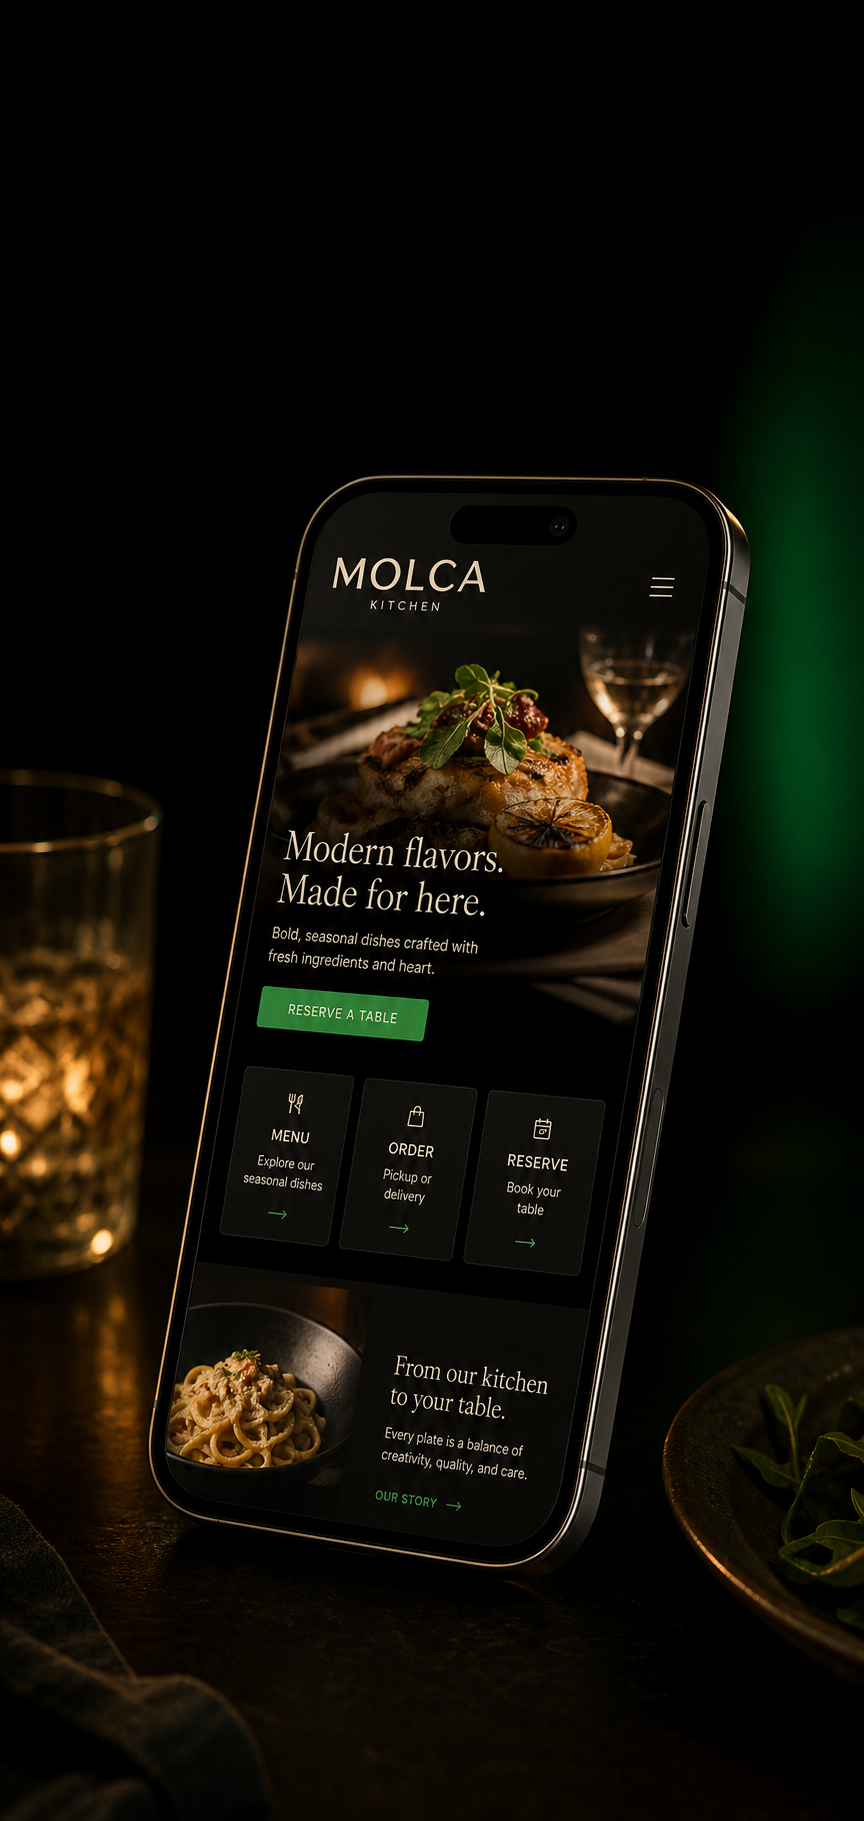
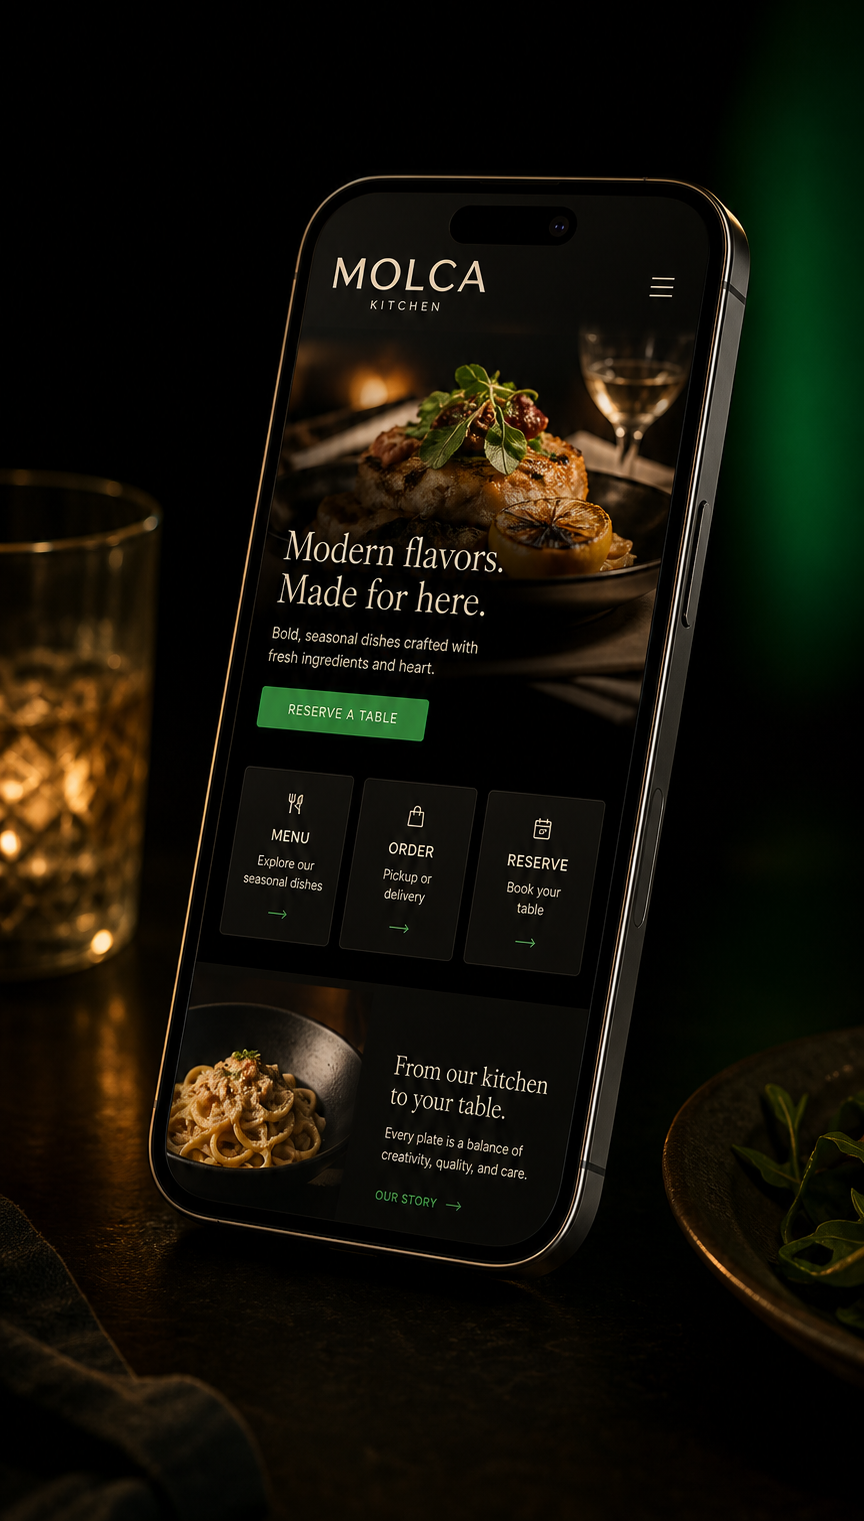
Crop restaurant visual asset

diff --git a/src/components/IndustryPage.tsx b/src/components/IndustryPage.tsx
@@ -182,7 +182,7 @@ function IndustryOutcomeProof({
           </h2>
         </div>
 
-        <div className="relative left-1/2 ml-[-50vw] mt-[-1.5rem] h-[560px] w-screen overflow-hidden bg-[#050706] shadow-[0_34px_110px_rgba(0,0,0,0.5)] md:mt-[-2rem] md:h-[680px]">
+        <div className="relative left-1/2 ml-[-50vw] w-screen overflow-hidden bg-[#050706] py-2 shadow-[0_34px_110px_rgba(0,0,0,0.5)] md:py-6">
           <div className="pointer-events-none absolute inset-x-0 top-0 z-10 h-20 bg-gradient-to-b from-[#080A09] via-[#080A09]/72 to-transparent" />
           <div className="pointer-events-none absolute inset-x-0 bottom-0 z-10 h-28 bg-gradient-to-t from-[#080A09] via-[#080A09]/80 to-transparent md:h-36" />
           <div className="pointer-events-none absolute inset-y-0 left-0 z-10 w-16 bg-gradient-to-r from-[#080A09] to-transparent md:w-28" />
@@ -190,7 +190,7 @@ function IndustryOutcomeProof({
           <img
             src="/marketing/found-restaurant-site-preview-v1.png"
             alt="Finished Found restaurant website shown on a mobile phone"
-            className="relative z-0 mx-auto block h-full w-full max-w-[760px] scale-[1.08] object-cover object-[center_78%] md:scale-105"
+            className="relative z-0 mx-auto block h-auto w-full max-w-[760px] scale-[1.02] md:scale-100"
           />
         </div>
       </div>

diff --git a/SESSION_HANDOFF.md b/SESSION_HANDOFF.md
@@ -20,6 +20,27 @@
 ### Explicit Next Step
 Run build verification, commit, push, then confirm Vercel production is Ready for the latest commit before Shawn retests `/industries/restaurants`.
 
+## 2026-08-15 - Restaurant Visual Asset Crop Correction
+
+### Progress This Pass
+- Shawn QA'd the live restaurant page and found the restaurant visual was over-cropped/overdone after the CSS framing fix.
+- Team review:
+  - Steve: undo the layout hack; solve the real image problem.
+  - Jony: the issue is baked into the restaurant image composition, not the page spacing.
+  - Craig: restore the approved simple visual-band layout and crop the asset itself.
+  - Marcus: keep the correction restaurant-only; do not affect contractor, homepage, pricing, onboarding, or other industry pages.
+- Restored the restaurant visual code to the approved simple product-band structure.
+- Cropped `public/marketing/found-restaurant-site-preview-v1.png` from `864x1821` to `864x1521`, removing 300px of empty top space so the phone appears sooner without CSS forcing.
+
+### Verification This Pass
+- `git diff --check` passed.
+- `cmd /c npx tsc --noEmit` passed.
+- `cmd /c npm run test:industry-mobile-layout` passed.
+- `cmd /c npm run build` passed.
+
+### Explicit Next Step
+Run verification, commit, push, and QA `/industries/restaurants` on iPhone. The image should sit closer to the copy without looking oversized or cut off.
+
 ## 2026-08-15 - Restaurant Industry Product Visual
 
 ### Progress This Pass

diff --git a/CHANGELOG.md b/CHANGELOG.md
@@ -19,6 +19,28 @@ Shawn reported that the latest production deployment failed, so the restaurant v
 
 ---
 
+## Session: August 15, 2026 - Restaurant Visual Asset Crop Correction
+**AI:** Codex
+
+### Context
+Shawn QA'd the live restaurant industry page and found the restaurant image was overdone after the CSS crop/scale fix. The team agreed the actual problem was the restaurant image asset's baked-in empty top space, not the page layout.
+
+### Changed
+- Restored `src/components/IndustryPage.tsx` restaurant visual layout to the simpler approved full-bleed product-band structure.
+- Cropped `public/marketing/found-restaurant-site-preview-v1.png` from `864x1821` to `864x1521`, removing 300px of empty top space so the phone appears closer to the copy naturally.
+- Kept the change restaurant-only; no homepage, contractor, pricing, onboarding, tracking, or template changes.
+
+### Verification
+- `git diff --check` passed.
+- `cmd /c npx tsc --noEmit` passed.
+- `cmd /c npm run test:industry-mobile-layout` passed.
+- `cmd /c npm run build` passed.
+
+### Next
+- Run local verification, commit, push, and retest `/industries/restaurants` on iPhone.
+
+---
+
 ## Session: August 15, 2026 - Restaurant Industry Product Visual
 **AI:** Codex
 
